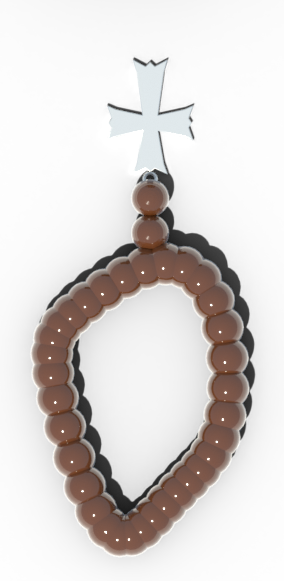
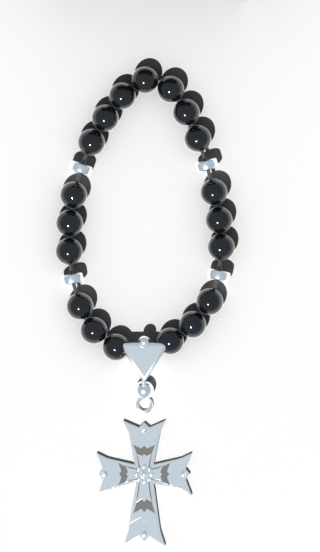
Чётки как на фото: чёрный оникс, серебряные разделители, конус и ажурный крест
Claude-Session: https://claude.ai/code/session_013vq6NREHT7txoK1nXmxN83

diff --git a/index.html b/index.html
@@ -683,7 +683,7 @@ html.night .sky{mix-blend-mode:normal;background:radial-gradient(ellipse 50% 58%
 const $=id=>document.getElementById(id);
 // GAME_VERSION — для людей, меняется при крупных обновлениях; APP_VERSION — номер сборки для кэша, растёт при каждой выкладке
 const GAME_VERSION='0.70';
-const APP_VERSION='53';   // совпадает с VERSION в sw.js; добавляется к адресам картинок, чтобы новые доски не брались из старого кэша
+const APP_VERSION='54';   // совпадает с VERSION в sw.js; добавляется к адресам картинок, чтобы новые доски не брались из старого кэша
 const NS='http://www.w3.org/2000/svg';
 const f2=v=>(+v).toFixed(1);
 

diff --git a/sw.js b/sw.js
@@ -1,5 +1,5 @@
 // Офлайн-кэш: страница, доски, звуки и шрифты кэшируются при установке.
-const V = '53';                 // = APP_VERSION в index.html
+const V = '54';                 // = APP_VERSION в index.html
 const VERSION = 'nardy-v' + V;
 const SHELL = [
   './',

diff --git a/tools/blender_table.py b/tools/blender_table.py
@@ -206,49 +206,72 @@ bpy.ops.mesh.primitive_plane_add(size=1, location=(PX, PY, pd + .002)); face = b
 face.scale = (pw * .985, ph * .985, 1); face.rotation_euler = (0, 0, math.radians(-5)); face.data.materials.append(fm_)
 # серебряные метки «X» на боковой грани видны чуть-чуть — опускаем
 
-# ---------- чётки с армянским крестом: бусины на нитке, кисточка-крест ----------
-RX, RY = 1.6, -11.6                                          # слева у доски, под пачкой
-amber = pmat('amber', **{'Base Color': (.10, .03, .008, 1), 'Roughness': .1, 'Coat Weight': 1.0, 'Coat Roughness': .03})   # тёмный янтарь
-silver2 = pmat('silver2', **{'Base Color': (.82, .82, .8, 1), 'Metallic': 1.0, 'Roughness': .28})
-cord = pmat('cord', **{'Base Color': (.25, .05, .03, 1), 'Roughness': .7})
-nb = 33
-pts = []
-for k in range(nb):                                           # петля, брошенная небрежно: эллипс с изгибом
-    t = 2 * math.pi * k / nb
-    pts.append((RX + .85 * math.cos(t) + .12 * math.sin(2 * t), RY + 1.3 * math.sin(t) - .15 * math.cos(3 * t)))   # вытянутая вдоль края доски петля
-for x, y in pts:
-    bpy.ops.mesh.primitive_uv_sphere_add(radius=.34 * CM * 1.6, location=(x, y, .34 * CM * 1.6), segments=24, ring_count=12)
-    bd = bpy.context.object; bd.data.materials.append(amber)
-    for p_ in bd.data.polygons: p_.use_smooth = True
-cu = bpy.data.curves.new('cord', 'CURVE'); cu.dimensions = '3D'; cu.bevel_depth = .05 * CM * 1.6
-sp = cu.splines.new('POLY'); sp.points.add(len(pts)); sp.use_cyclic_u = True
-for p_, (x, y) in zip(sp.points, pts + [pts[0]]): p_.co = (x, y, .34 * CM * 1.6, 1)
+# ---------- чётки: чёрный оникс, серебряные разделители, серебряный конус и ажурный армянский крест ----------
+RX, RY = 1.45, -10.2                                         # слева у доски, под пачкой: петля вверху, крест — вниз
+onyx = pmat('onyx', **{'Base Color': (.004, .004, .005, 1), 'Roughness': .12, 'Specular IOR Level': .35, 'Coat Weight': .35, 'Coat Roughness': .05})
+silver2 = pmat('silver2', **{'Base Color': (.86, .86, .84, 1), 'Metallic': 1.0, 'Roughness': .22})
+oxid = pmat('oxid', **{'Base Color': (.12, .12, .12, 1), 'Metallic': 1.0, 'Roughness': .55})   # чернёное серебро в углублениях
+cord = pmat('cord', **{'Base Color': (.04, .04, .045, 1), 'Roughness': .6})
+BR = .135                                                    # радиус бусины (~7 мм)
+def sphere(x, y, r, mat, z=None):
+    bpy.ops.mesh.primitive_uv_sphere_add(radius=r, location=(x, y, r if z is None else z), segments=28, ring_count=14)
+    o = bpy.context.object; o.data.materials.append(mat)
+    for p_ in o.data.polygons: p_.use_smooth = True
+    return o
+# петля — вытянутая вверх капля, бусины плотно друг к другу
+# бусины расставляем по длине кривой, вплотную, но не внахлёст
+curve = [(RX + .74 * math.sin(t) * (1 - .25 * math.cos(t)), RY + 1.05 + 1.35 * math.cos(t) + .05 * math.sin(3 * t)) for t in np.linspace(0, 2 * math.pi, 721)]
+seg = np.hypot(np.diff([c[0] for c in curve]), np.diff([c[1] for c in curve])); cum = np.concatenate([[0], np.cumsum(seg)])
+nb = int(cum[-1] / (BR * 2.08)); nb -= nb % 2
+loop = [curve[int(np.searchsorted(cum, cum[-1] * k / nb))] for k in range(nb)]
+for k, (x, y) in enumerate(loop):
+    if k == nb // 2: continue                                 # внизу петли — серебряный конус
+    if k in (nb // 6, nb // 3, nb - nb // 3, nb - nb // 6):  # серебряные разделители-рондели
+        bpy.ops.mesh.primitive_cylinder_add(vertices=32, radius=BR * .82, depth=BR * .7, location=(x, y, BR))
+        o = bpy.context.object; nx, ny = loop[(k + 1) % nb][0] - loop[k - 1][0], loop[(k + 1) % nb][1] - loop[k - 1][1]
+        o.rotation_euler = (math.radians(90), 0, math.atan2(ny, nx) + math.pi / 2); o.data.materials.append(silver2)
+        bv = o.modifiers.new('b', 'BEVEL'); bv.width = BR * .12; bv.segments = 3
+        for p_ in o.data.polygons: p_.use_smooth = True
+    else:
+        sphere(x, y, BR, onyx)
+cu = bpy.data.curves.new('cord', 'CURVE'); cu.dimensions = '3D'; cu.bevel_depth = BR * .12
+sp = cu.splines.new('POLY'); sp.points.add(len(loop)); sp.use_cyclic_u = True
+for p_, (x, y) in zip(sp.points, loop + [loop[0]]): p_.co = (x, y, BR, 1)
 cd = bpy.data.objects.new('cord', cu); sc.collection.objects.link(cd); cd.data.materials.append(cord)
-# хвост: две бусины и серебряный армянский крест (концы с «ласточкиными хвостами»)
-tx, ty = pts[nb // 4]
-tail = [(tx + .05, ty + .35 * k) for k in range(1, 3)]
-for x, y in tail:
-    bpy.ops.mesh.primitive_uv_sphere_add(radius=.3 * CM * 1.6, location=(x, y, .3 * CM * 1.6)); bpy.context.object.data.materials.append(amber)
-cx, cy = tx + .05, ty + 1.45
-# армянский крест: ветви расширяются к концам и раздваиваются завитками; плоский серебряный, с ушком сверху
+# конус-«щиток»: серебряный треугольник с чернёным орнаментом
+bx, by = loop[nb // 2]
+def prism(pts, z0, h, mat, name):
+    crv = bpy.data.curves.new(name, 'CURVE'); crv.dimensions = '2D'; crv.fill_mode = 'BOTH'; crv.extrude = h / 2; crv.bevel_depth = h * .15
+    s_ = crv.splines.new('POLY'); s_.points.add(len(pts) - 1); s_.use_cyclic_u = True
+    for p_, (x, y) in zip(s_.points, pts): p_.co = (x, y, 0, 1)
+    o = bpy.data.objects.new(name, crv); sc.collection.objects.link(o); o.location = (0, 0, z0 + h / 2); o.data.materials.append(mat); return o
+cw, ch = .2, .27
+prism([(bx - cw, by + .04), (bx + cw, by + .04), (bx, by - ch)], 0, BR * 1.6, silver2, 'cone')
+prism([(bx - cw * .55, by - .01), (bx + cw * .55, by - .01), (bx, by - ch * .62)], BR * 1.6, .004, oxid, 'cone_in')
+sphere(bx, by + .08, BR * .45, silver2, BR * 1.7)
+# под конусом — серебряная бусина и ушко
+sphere(bx, by - ch - .13, BR * .7, silver2)
+bpy.ops.mesh.primitive_torus_add(major_radius=.07, minor_radius=.018, location=(bx, by - ch - .28, .03)); bpy.context.object.data.materials.append(silver2)
+# армянский крест: ветви расширяются и раздваиваются завитками; ажурный — внутри чернёный узор, в центре розетка
+cx, cy = bx, by - ch - .35 - .62
 def arm_pts(L, w0, w1):
-    """контур одной ветви вдоль +y: от центра к раздвоенному концу"""
-    return [(-w0, w0), (-w1, L * .82), (-w1 * 1.25, L), (-w1 * .35, L * .9), (0, L * .97), (w1 * .35, L * .9), (w1 * 1.25, L), (w1, L * .82), (w0, w0)]
-outline = []
-# крест лежит длинной ветвью от чёток (к +y), ушко — на короткой ветви у бусин
-for ang, L in ((0, .62), (-90, .42), (180, .5), (90, .42)):   # +y, вправо, −y, влево; ветви стыкуются в углах (±w0, ±w0)
-    ca, sa = math.cos(math.radians(ang)), math.sin(math.radians(ang))
-    outline += [(x * ca - y * sa, x * sa + y * ca) for x, y in arm_pts(L, .07, .13)][:-1]
-crv = bpy.data.curves.new('cross', 'CURVE'); crv.dimensions = '2D'; crv.fill_mode = 'BOTH'; crv.extrude = .02; crv.bevel_depth = .006
-spl = crv.splines.new('POLY'); spl.points.add(len(outline) - 1); spl.use_cyclic_u = True
-for p_, (x, y) in zip(spl.points, outline): p_.co = (x, y, 0, 1)
-cr = bpy.data.objects.new('cross', crv); sc.collection.objects.link(cr); cr.location = (cx, cy, .03); cr.data.materials.append(silver2)
-bpy.ops.mesh.primitive_torus_add(major_radius=.06, minor_radius=.015, location=(cx, cy - .56, .03)); bpy.context.object.data.materials.append(silver2)
-# нитка от хвоста к ушку
-cu2 = bpy.data.curves.new('cord2', 'CURVE'); cu2.dimensions = '3D'; cu2.bevel_depth = .05 * CM * 1.6
-sp2 = cu2.splines.new('POLY'); sp2.points.add(2)
-for p_, c_ in zip(sp2.points, [(tx, ty, .34 * CM * 1.6), (tail[-1][0], tail[-1][1], .3 * CM * 1.6), (cx, cy - .62, .03)]): p_.co = (*c_, 1)
-o2 = bpy.data.objects.new('cord2', cu2); sc.collection.objects.link(o2); o2.data.materials.append(cord)
+    return [(-w0, w0), (-w1, L * .80), (-w1 * 1.3, L), (-w1 * .35, L * .88), (0, L * .97), (w1 * .35, L * .88), (w1 * 1.3, L), (w1, L * .80), (w0, w0)]
+def cross_outline(k):
+    out = []
+    for ang, L in ((0, .52 * k), (-90, .46 * k), (180, .70 * k), (90, .46 * k)):   # верх (к ушку), право, низ — длиннее, лево
+        ca, sa = math.cos(math.radians(ang)), math.sin(math.radians(ang))
+        out += [(cx + x * ca - y * sa, cy + x * sa + y * ca) for x, y in arm_pts(L, .085 * k, .15 * k)][:-1]
+    return out
+# слои, как у ажурного креста на фото: серебряный край, чернёная полоса, серебряная филигрань, снова чернь, серебряный центр
+for k_, z_, h_, m_ in ((1.0, 0, .045, silver2), (.84, .045, .003, oxid), (.70, .048, .006, silver2), (.56, .054, .003, oxid), (.40, .057, .008, silver2)):
+    prism(cross_outline(k_), z_, h_, m_, 'cross%.2f' % k_)
+for k in range(8):                                                # розетка в центре
+    a_ = k * math.pi / 4
+    sphere(cx + .075 * math.cos(a_), cy + .075 * math.sin(a_), .022, silver2, .07)
+sphere(cx, cy, .04, silver2, .072)
+for ang in (0, 90, 180, 270):                                     # бусинки-зерно на концах ветвей
+    a_ = math.radians(ang + 90); L = (.52 if ang == 0 else .70 if ang == 180 else .46) * .86
+    sphere(cx + L * math.cos(a_), cy + L * math.sin(a_), .028, silver2, .06)
 
 props = [o for o in bpy.data.objects if o not in _before_props]
 # Пачка и чётки — отдельными картинками (PROPS=1): в игре их ставят вплотную к доске на любом экране.
@@ -286,7 +309,7 @@ bpy.ops.render.render(write_still=True)
 if PROPS:
     # вырезаем пачку (верх левого края) и чётки (низ) по непрозрачным пикселям; 1950 px картинки = 1100 единиц доски
     im = Image.open(sc.render.filepath).convert('RGBA'); a = np.asarray(im)[..., 3]
-    for name, y0, y1 in (('pack', 0, 760), ('beads', 760, 1500)):
+    for name, y0, y1 in (('pack', 0, 700), ('beads', 700, 1500)):
         sub = a[y0:y1, :700]; ys, xs = np.nonzero(sub > 8)
         box = (max(0, xs.min() - 6), y0 + max(0, ys.min() - 6), min(700, xs.max() + 7), y0 + min(y1 - y0, ys.max() + 7))
         im.crop(box).save(os.path.join(ROOT, 'boards', f'prop-{name}.png'), optimize=True)
